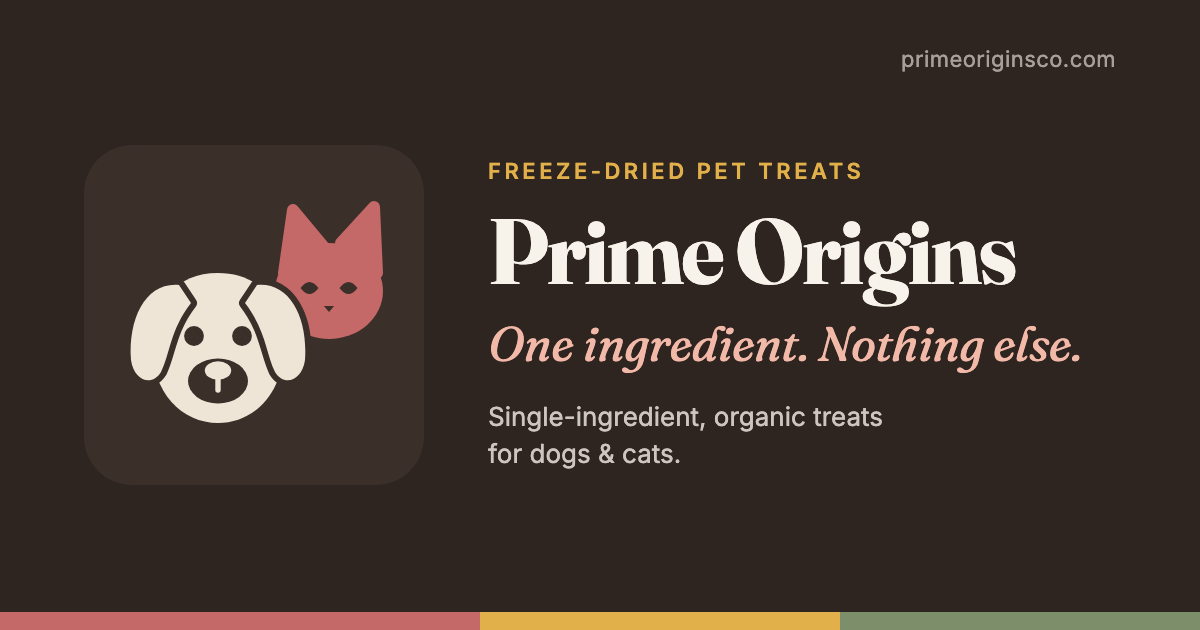
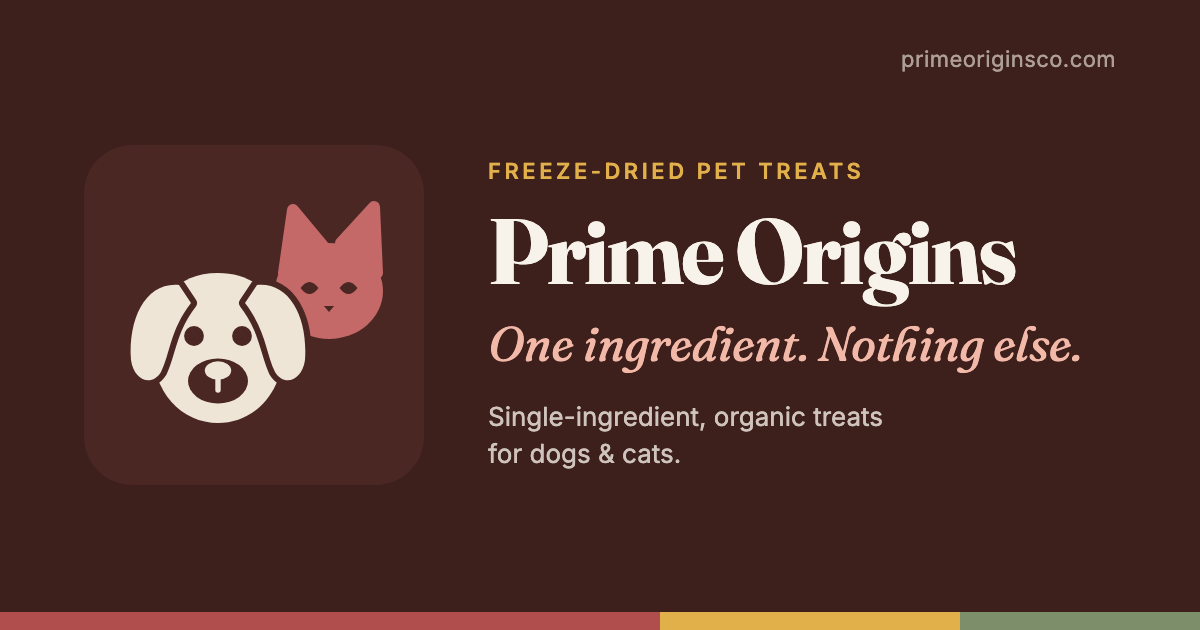
More red per client: red-brown hero, red strip, oxblood process, rose panels
Claude-Session: https://claude.ai/code/session_01G9FAG3VuMJrzVJCUyDvujs

Changed region(s): [[0.0, 0.9651, 0.555, 1.0], [0.6783, 0.9651, 0.8017, 1.0]]

diff --git a/styles.css b/styles.css
@@ -3,6 +3,9 @@
      page: espresso darks, oat neutrals, and sage + gold as secondary colors balance it. */
   --deep: #2e2420;    /* espresso: dark sections, headings */
   --deep-2: #4a3a33;
+  --hero: #3d1f1c;     /* red-brown: the hero leans red without going full oxblood */
+  --oxblood: #4b1b1f; /* dark band from the packaging */
+  --rose: #f3d9d4;
   --cream: #f8f3ea;   /* page background */
   --blush: #efe5d6;   /* oat: soft panels and light text on dark */
   --red: #b04e4e;     /* brand red for text + buttons: 5.2:1 with white */
@@ -62,7 +65,7 @@ header {
 .menu-toggle span { display: block; width: 22px; height: 2px; background: var(--deep); margin: 5px 0; }
 
 /* Hero */
-.hero { background: var(--deep); color: var(--cream); overflow: hidden; position: relative; }
+.hero { background: var(--hero); color: var(--cream); overflow: hidden; position: relative; }
 .hero-grid { display: grid; grid-template-columns: 1.1fr .9fr; gap: 48px; align-items: center; padding-top: 96px; padding-bottom: 104px; }
 .hero h1 { font-size: clamp(44px, 6.4vw, 84px); letter-spacing: -.02em; margin: 18px 0 22px; }
 .hero h1 em { font-style: italic; color: var(--peach); font-weight: 400; }
@@ -98,7 +101,7 @@ header {
 .chip.c3 { bottom: 4%; left: 8%; }
 
 /* Marquee */
-.strip { background: var(--gold); color: var(--deep); overflow: hidden; white-space: nowrap; padding: 14px 0; }
+.strip { background: var(--red); color: var(--white); overflow: hidden; white-space: nowrap; padding: 14px 0; }
 .strip-track { display: inline-flex; gap: 48px; animation: scroll 30s linear infinite; font-family: "Fraunces", serif; font-size: 20px; font-style: italic; }
 .strip-track span::after { content: "✦"; margin-left: 48px; font-style: normal; opacity: .7; }
 @keyframes scroll { to { transform: translateX(-50%); } }
@@ -119,7 +122,7 @@ section { padding: 110px 0; }
 .pillar p { color: var(--muted); font-size: 15px; }
 
 /* Label compare */
-.compare { background: var(--blush); }
+.compare { background: var(--rose); }
 .compare-grid { display: grid; grid-template-columns: 1fr 1fr; gap: 64px; align-items: center; }
 .labels { display: grid; grid-template-columns: 1fr 1fr; gap: 18px; }
 .label-card { background: var(--white); border-radius: var(--radius); padding: 26px; font-size: 14px; }
@@ -146,7 +149,7 @@ section { padding: 110px 0; }
 .product .btn { margin-top: auto; align-self: flex-start; padding: 10px 20px; font-size: 14px; color: var(--deep); }
 
 /* Process */
-.process { background: var(--deep); color: var(--cream); }
+.process { background: var(--oxblood); color: var(--cream); }
 .process .section-head h2 { color: var(--cream); }
 .process .section-head p { color: rgba(251, 243, 240,.75); }
 .process .eyebrow { color: var(--blush); }
@@ -164,7 +167,7 @@ section { padding: 110px 0; }
 /* Pets */
 .pets-grid { display: grid; grid-template-columns: 1fr 1fr; gap: 24px; }
 .pet-card { border-radius: var(--radius); padding: 48px; min-height: 300px; display: flex; flex-direction: column; justify-content: flex-end; position: relative; overflow: hidden; }
-.pet-card.dog { background: #f3d3c8; }
+.pet-card.dog { background: #f0c4b8; }
 .pet-card.cat { background: var(--sage-light); }
 .pet-card svg.pet-icon { position: absolute; top: 32px; right: 32px; width: 120px; height: 120px; opacity: .22; color: var(--deep); }
 .pet-card h3 { font-size: 36px; color: var(--deep); margin-bottom: 10px; }

diff --git a/brand/og/og-card.html b/brand/og/og-card.html
@@ -6,15 +6,15 @@
 @font-face { font-family: Inter; src: url(../../fonts/inter-normal.woff2) format("woff2"); font-weight: 100 900; }
 * { margin: 0; box-sizing: border-box; }
 html, body { width: 1200px; height: 630px; overflow: hidden; }
-body { background: #2e2420; color: #f8f3ea; font-family: Inter, sans-serif; position: relative; display: flex; align-items: center; padding: 0 84px; gap: 64px; }
-.mark { width: 340px; height: 340px; flex: none; background: #3b2f2a; border-radius: 48px; display: grid; place-items: center; }
+body { background: #3d1f1c; color: #f8f3ea; font-family: Inter, sans-serif; position: relative; display: flex; align-items: center; padding: 0 84px; gap: 64px; }
+.mark { width: 340px; height: 340px; flex: none; background: #4b2724; border-radius: 48px; display: grid; place-items: center; }
 .mark img { width: 270px; height: 270px; }
 .copy { flex: 1; }
 .eyebrow { font-size: 22px; letter-spacing: .16em; text-transform: uppercase; color: #e2b04a; font-weight: 600; margin-bottom: 22px; }
 h1 { font-family: Fraunces, serif; font-weight: 700; font-size: 92px; line-height: .98; letter-spacing: -.02em; }
 h2 { font-family: Fraunces, serif; font-style: italic; font-weight: 400; font-size: 48px; color: #f2b8a8; margin-top: 18px; }
 p { font-size: 26px; color: rgba(248,243,234,.78); margin-top: 26px; line-height: 1.4; }
-.bar { position: absolute; left: 0; right: 0; bottom: 0; height: 18px; background: linear-gradient(90deg, #c46868 0 40%, #e2b04a 40% 70%, #7d8f6a 70%); }
+.bar { position: absolute; left: 0; right: 0; bottom: 0; height: 18px; background: linear-gradient(90deg, #b04e4e 0 55%, #e2b04a 55% 80%, #7d8f6a 80%); }
 .url { position: absolute; right: 84px; top: 46px; font-size: 22px; color: rgba(248,243,234,.6); letter-spacing: .02em; }
 </style></head>
 <body>

diff --git a/index.html b/index.html
@@ -28,7 +28,7 @@
   <link rel="preload" href="/fonts/fraunces-normal.woff2" as="font" type="font/woff2" crossorigin>
   <link rel="preload" href="/fonts/inter-normal.woff2" as="font" type="font/woff2" crossorigin>
   <link rel="stylesheet" href="/fonts/fonts.css?v=02822b6bf5">
-  <link rel="stylesheet" href="/styles.css?v=93c80685e5">
+  <link rel="stylesheet" href="/styles.css?v=f097e876b7">
 </head>
 <body>
 

diff --git a/brand/README.md b/brand/README.md
@@ -26,3 +26,8 @@ Logo v2 recolored to match (dog deep/blush, cat coral). The green v2 files are k
 The all-red version felt too red. Red is now the accent only: espresso `#2e2420` darks, oat cream `#f8f3ea` /
 `#efe5d6`, sage `#7d8f6a` / `#dfe6d6`, gold `#e2b04a`, peach `#f2b8a8`; brand red `#b04e4e` + coral `#c46868`.
 Logo: espresso dog + coral cat. All-red logo copies are kept as `logo-v2-red-*.svg`.
+
+## A little more red (2026-10-01, client request)
+Hero → red-brown `#3d1f1c`, banner strip → brand red, "How it's made" → oxblood `#4b1b1f`,
+"Read the label" panel → rose `#f3d9d4`, dog card → `#f0c4b8`. Gold/sage/oat kept as secondary colors.
+OG card background matched to the hero.
